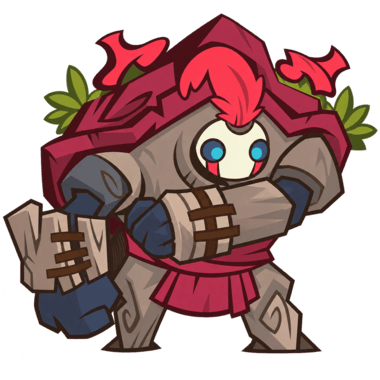
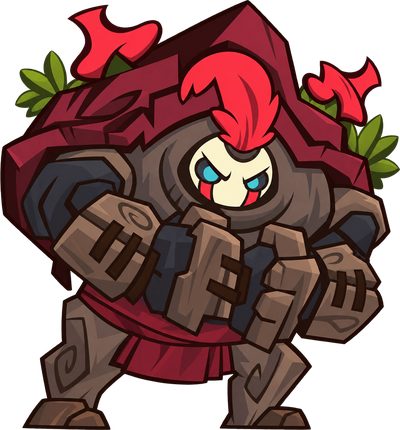
Sprites pegar al gnomo para los 6 personajes; calibrar-gnomo con tamaño de pose y fantasma de iddle
Claude-Session: https://claude.ai/code/session_01N2rN2QLnqo7mQ3uD8Ccqwh

diff --git a/debug/calibrar-gnomo.html b/debug/calibrar-gnomo.html
@@ -200,6 +200,12 @@
       <button class="toggle-btn" id="poseBtn">Ver pose: machacagnomos</button>
       <span style="font-size:0.75rem;color:var(--muted);" id="poseName">Pose actual: iddle</span>
     </div>
+    <div class="control" id="poseSizeCtl" style="display:none;">
+      <label for="poseScale">Tamaño del sprite en esta pose — <span class="value" id="poseScaleVal">1.00</span>x (iddle = <span id="idleScaleVal">1.00</span>x)</label>
+      <input type="range" id="poseScale" min="0.4" max="2.5" step="0.05" value="1">
+      <label style="font-size:0.75rem;color:var(--muted);"><input type="checkbox" id="ghostIdle" checked> Superponer iddle (fantasma) para comparar</label>
+      <span style="font-size:0.75rem;color:var(--muted);">Se comparte con configurar-personajes (mismo valor guardado).</span>
+    </div>
     <div class="control" style="min-width: auto;">
       <button class="reset-btn" id="resetBtn">Reiniciar posición de este personaje (pose actual)</button>
     </div>
@@ -496,7 +502,52 @@
         : pose === "pegar" ? Units.pegarGnomoSpriteFor(currentTypeId)
         : type.spriteUrl;
       currentEls.spriteEl.src = "../" + (url || type.spriteUrl);
+      const ctl = document.getElementById("poseSizeCtl");
+      ctl.style.display = pose === "idle" ? "none" : "";
+      const idleScale = SPRITE_SCALES[currentTypeId] ?? SPRITE_SCALES.default;
+      document.getElementById("idleScaleVal").textContent = idleScale.toFixed(2);
+      const sc = pose === "idle" ? idleScale : poseScaleFor(currentTypeId);
+      currentEls.spriteEl.style.width = Math.round(120 * sc) + "px";
+      if (pose !== "idle") { poseScaleInput.value = sc; poseScaleVal.textContent = sc.toFixed(2); }
+      updateGhost();
     }
+
+    // Tamaño de la pose: mismo almacenamiento que debug/configurar-personajes.html
+    const CHAR_STORAGE_KEY = "gnomore-tamano-stats-personajes-v1";
+    const poseScaleInput = document.getElementById("poseScale");
+    const poseScaleVal = document.getElementById("poseScaleVal");
+    const ghostIdle = document.getElementById("ghostIdle");
+    function loadCharStore() { try { return JSON.parse(localStorage.getItem(CHAR_STORAGE_KEY)) || {}; } catch (e) { return {}; } }
+    function poseScaleField() { return pose === "machaca" ? "scaleMachaca" : "scalePegar"; }
+    function poseScaleFor(typeId) {
+      const saved = (loadCharStore()[typeId] || {})[poseScaleField()];
+      if (saved != null) return saved;
+      return pose === "machaca" ? Units.machacaScaleFor(typeId) : Units.pegarGnomoScaleFor(typeId);
+    }
+    function updateGhost() {
+      const old = stageHeld.querySelector(".idle-ghost");
+      if (old) old.remove();
+      if (pose === "idle" || !ghostIdle.checked || !currentEls) return;
+      const type = UNIT_TYPES[currentTypeId];
+      const g = document.createElement("div");
+      g.className = "unit unit--player idle-ghost";
+      g.style.opacity = "0.35"; g.style.pointerEvents = "none"; g.style.zIndex = "0";
+      const flip = document.createElement("div"); flip.className = "unit__flip";
+      flip.style.transform = facingLeft ? "scaleX(-1)" : "scaleX(1)";
+      const img = document.createElement("img"); img.className = "unit__sprite";
+      img.src = "../" + type.spriteUrl; img.draggable = false;
+      img.style.width = Math.round(120 * (SPRITE_SCALES[currentTypeId] ?? SPRITE_SCALES.default)) + "px";
+      flip.appendChild(img); g.appendChild(flip); stageHeld.insertBefore(g, stageHeld.firstChild);
+    }
+    poseScaleInput.addEventListener("input", () => {
+      const v = Number(poseScaleInput.value);
+      poseScaleVal.textContent = v.toFixed(2);
+      currentEls.spriteEl.style.width = Math.round(120 * v) + "px";
+      const store = loadCharStore();
+      store[currentTypeId] = Object.assign(store[currentTypeId] || {}, { [poseScaleField()]: v });
+      try { localStorage.setItem(CHAR_STORAGE_KEY, JSON.stringify(store)); } catch (e) {}
+    });
+    ghostIdle.addEventListener("change", updateGhost);
 
     function currentValues() {
       return { right: curRight, bottom: curBottom };
@@ -571,7 +622,7 @@
 
     teamSelect.addEventListener("change", () => loadTeam(teamSelect.value));
     charSelect.addEventListener("change", () => loadCharacter(charSelect.value));
-    flipBtn.addEventListener("click", () => { facingLeft = !facingLeft; applyFacing(); });
+    flipBtn.addEventListener("click", () => { facingLeft = !facingLeft; applyFacing(); updateGhost(); });
     poseBtn.addEventListener("click", () => {
       pose = nextPose();
       poseBtn.textContent = "Ver pose: " + POSE_LABELS[nextPose()];

diff --git a/js/units.js b/js/units.js
@@ -97,7 +97,7 @@ const UNIT_TYPES = {
     // ponemos al golemcorteza". Mismo criterio opcional que machacaUrl/
     // espinasUrl: un personaje sin esta entrada simplemente se queda con su
     // sprite normal durante el golpe (ver Units.pegarGnomoSpriteFor).
-    pegarGnomoUrl: "assets/equipos/MushboomForest/pegargnomo_hombre_arbol.png",
+    pegarGnomoUrl: "assets/equipos/MushboomForest/pegargnomo_hombre_arbol.png?v=2",
     aguante: 4,
     movimiento: 1,
     fuerza: 3,
@@ -116,6 +116,7 @@ const UNIT_TYPES = {
     spriteUrl: "assets/equipos/MushboomForest/unidad_02.png",
     machacaUrl: "assets/equipos/MushboomForest/machacagnomos_surcabosques.png",
     machacaImpactUrl: "assets/equipos/MushboomForest/machacagnomos_surcabosques_impacto.png",
+    pegarGnomoUrl: "assets/equipos/MushboomForest/pegargnomo_surcabosques.png",
     aguante: 1,
     movimiento: 4,
     fuerza: 1,
@@ -130,6 +131,7 @@ const UNIT_TYPES = {
     spriteUrl: "assets/equipos/MushboomForest/unidad_03.png",
     machacaUrl: "assets/equipos/MushboomForest/machacagnomos_seta_artificiero.png",
     machacaImpactUrl: "assets/equipos/MushboomForest/machacagnomos_seta_artificiero_impacto.png",
+    pegarGnomoUrl: "assets/equipos/MushboomForest/pegargnomo_seta_artificiero.png",
     aguante: 2,
     movimiento: 2,
     fuerza: 2,
@@ -144,6 +146,7 @@ const UNIT_TYPES = {
     spriteUrl: "assets/equipos/ColinasRockNTroll/unidad_01.png",
     machacaUrl: "assets/equipos/ColinasRockNTroll/machacagnomos_goblin_lanzador.png",
     machacaImpactUrl: "assets/equipos/ColinasRockNTroll/machacagnomos_goblin_lanzador_impacto.png",
+    pegarGnomoUrl: "assets/equipos/ColinasRockNTroll/pegargnomo_goblin_lanzador.png",
     aguante: 2,
     movimiento: 3,
     fuerza: 1,
@@ -158,6 +161,7 @@ const UNIT_TYPES = {
     spriteUrl: "assets/equipos/ColinasRockNTroll/unidad_02.png",
     machacaUrl: "assets/equipos/ColinasRockNTroll/machacagnomos_urgamentes.png",
     machacaImpactUrl: "assets/equipos/ColinasRockNTroll/machacagnomos_urgamentes_impacto.png",
+    pegarGnomoUrl: "assets/equipos/ColinasRockNTroll/pegargnomo_urgamentes.png",
     aguante: 2,
     movimiento: 3,
     fuerza: 2,
@@ -176,6 +180,7 @@ const UNIT_TYPES = {
     spriteUrl: "assets/equipos/ColinasRockNTroll/unidad_03.png",
     machacaUrl: "assets/equipos/ColinasRockNTroll/machacagnomos_punoroca.png",
     machacaImpactUrl: "assets/equipos/ColinasRockNTroll/machacagnomos_punoroca_impacto.png",
+    pegarGnomoUrl: "assets/equipos/ColinasRockNTroll/pegargnomo_punoroca.png",
     aguante: 5,
     movimiento: 3,
     fuerza: 5,

diff --git a/index.html b/index.html
@@ -139,7 +139,7 @@
   <script src="js/tooltip.js?v=1791042260"></script>
   <script src="js/attackcursor.js?v=1791042260"></script>
   <script src="js/shadows.js?v=1791042260"></script>
-  <script src="js/units.js?v=1791319183"></script>
+  <script src="js/units.js?v=1791321031"></script>
   <script src="js/bloodsplat.js?v=1791042260"></script>
   <script src="js/movement.js?v=1791042260"></script>
   <script src="js/combat.js?v=1791042260"></script>
@@ -176,7 +176,7 @@
   <script src="js/friends.js?v=1791042260"></script>
   <script src="js/tutorial.js?v=1791319183"></script>
   <script src="js/menu.js?v=1791042260"></script>
-  <script src="js/assetlist.js?v=1791130000"></script>
+  <script src="js/assetlist.js?v=1791321031"></script>
   <script src="js/preload.js?v=1791042260"></script>
   <script src="js/newgame-flow.js?v=1791120200"></script>
   <script src="js/touchfix.js?v=1791042260"></script>

diff --git a/js/assetlist.js b/js/assetlist.js
@@ -62,7 +62,12 @@ const PRELOAD_ASSETS = [
  "assets/equipos/MushboomForest/machacagnomos_seta_artificiero_impacto.png",
  "assets/equipos/MushboomForest/machacagnomos_surcabosques.png",
  "assets/equipos/MushboomForest/machacagnomos_surcabosques_impacto.png",
- "assets/equipos/MushboomForest/pegargnomo_hombre_arbol.png",
+ "assets/equipos/MushboomForest/pegargnomo_hombre_arbol.png?v=2",
+ "assets/equipos/MushboomForest/pegargnomo_surcabosques.png",
+ "assets/equipos/MushboomForest/pegargnomo_seta_artificiero.png",
+ "assets/equipos/ColinasRockNTroll/pegargnomo_goblin_lanzador.png",
+ "assets/equipos/ColinasRockNTroll/pegargnomo_urgamentes.png",
+ "assets/equipos/ColinasRockNTroll/pegargnomo_punoroca.png",
  "assets/equipos/MushboomForest/unidad_01.png",
  "assets/equipos/MushboomForest/unidad_01_midres.png",
  "assets/equipos/MushboomForest/unidad_02.png",
